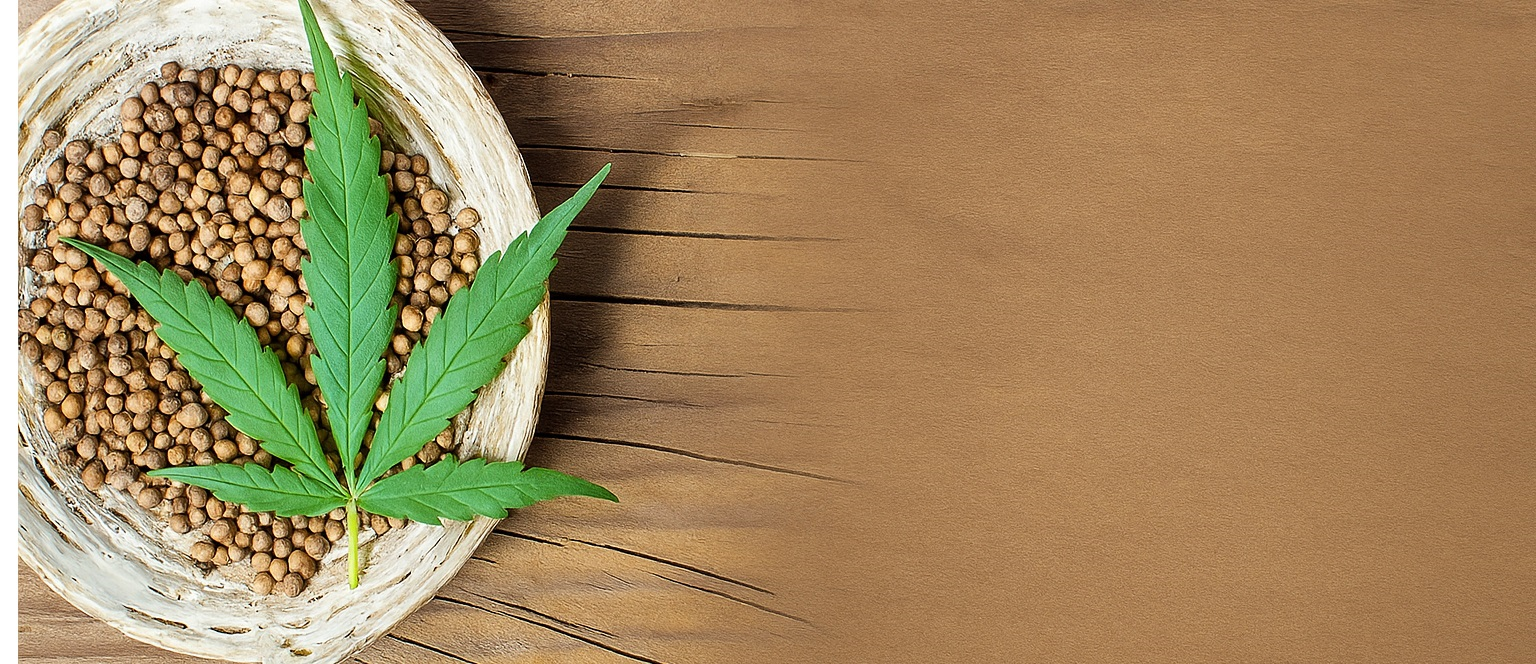
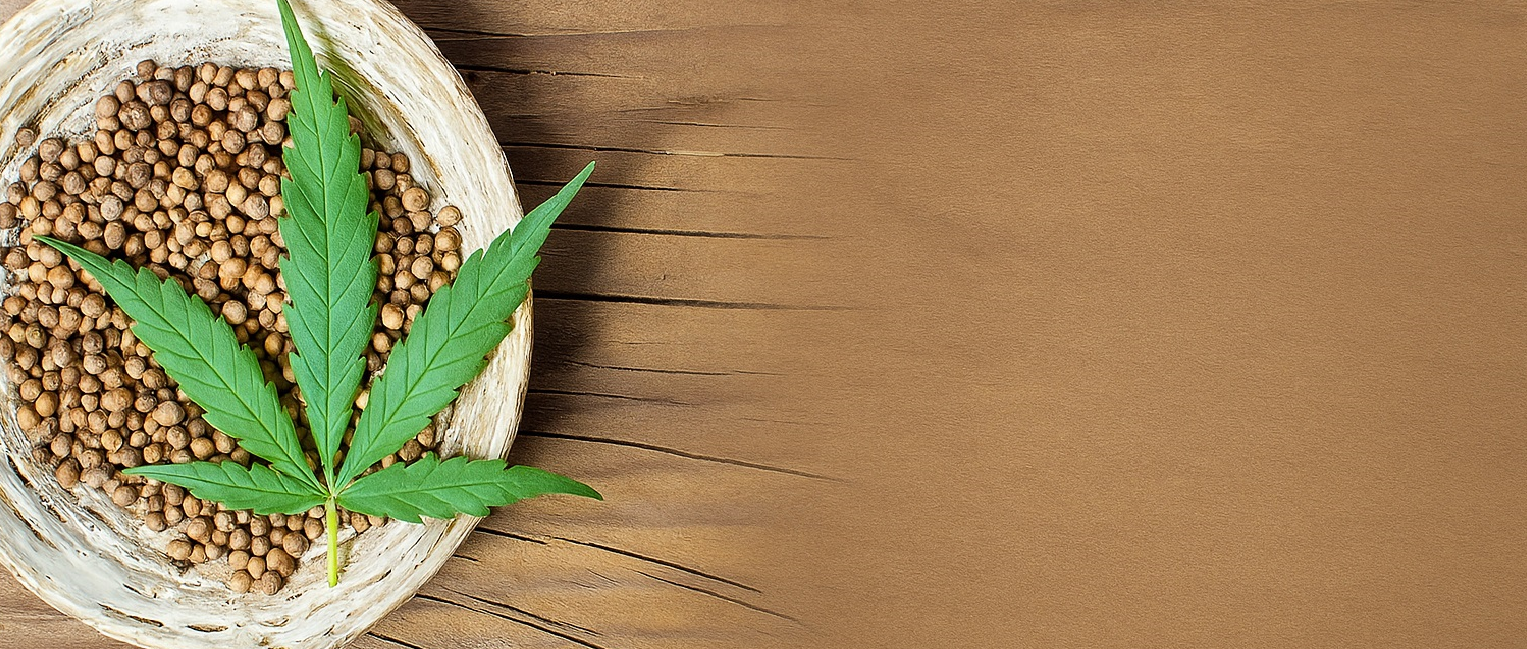
Add files via upload

diff --git a/css/styles.css b/css/styles.css
@@ -754,3 +754,71 @@ body{ overflow-x: hidden; }
   /* Make sure long words don't force width */
   #carousel, #carousel *{ min-width: 0; }
 }
+
+/* === HEADER LAYOUT UPDATE (wider, slightly less tall, shift content ~1/4 right) === */
+.site-header{
+  /* Make header visually wider and slightly less tall */
+  background-size: cover !important;
+  background-position: center center !important;
+  /* Control height via min-height instead of large paddings */
+  min-height: clamp(180px, 28vw, 340px);
+  padding-top: clamp(16px, 3vw, 28px) !important;
+  padding-bottom: clamp(16px, 3vw, 28px) !important;
+}
+
+/* Treat the inner header block (title + INASE + subtitle) as a single visual group */
+.site-header .container{
+  display: grid;
+  justify-items: center;
+  align-items: center;
+  gap: 8px;
+  /* Keep the group compact and scalable */
+  width: min(92%, 960px);
+  margin: 0 auto;
+  /* Shift group roughly one-quarter of the header width to the right of center.
+     Use a viewport-based translate so it's proportional without editing HTML. */
+  transform: translateX(12.5vw);
+}
+
+/* Limit shift on very small screens so it doesn't push too far */
+@media (max-width: 520px){
+  .site-header .container{
+    transform: translateX(6vw);
+  }
+}
+
+/* Keep typography proportional */
+.site-title{
+  font-size: clamp(22px, 4.2vw, 40px);
+  line-height: 1.05;
+  text-align: center;
+}
+.site-subtitle{
+  font-size: clamp(12px, 2.4vw, 16px);
+  text-align: center;
+}
+
+/* Target the INASE image variants by filename pattern to preserve proportions */
+.site-header img[src*="inase_hd"]{
+  height: clamp(34px, 6vw, 56px);
+  width: auto;
+  display: block;
+}
+
+/* Ensure the three elements stay grouped tightly regardless of screen size */
+.site-header .container > *{
+  max-width: 100%;
+}
+
+/* On large screens, allow a slightly stronger right shift for visual balance */
+@media (min-width: 1024px){
+  .site-header .container{ transform: translateX(16vw); }
+}
+
+
+/* === New header background override === */
+.site-header{
+  background-image: url('../img/header-bg.png') !important;
+  background-size: cover;
+  background-position: center;
+}

diff --git a/js/data-driver.js b/js/data-driver.js
@@ -207,3 +207,39 @@ function renderCardsFromProducts(){
   window.closeSpecsAccordion = closeSpecsAccordion;
   window.toggleSpecsAccordion = toggleSpecsAccordion;
 })();
+
+
+// === Carousel Controls (Prev/Next) ===
+(function(){
+  function scrollByCard(dir){
+    try {
+      var list = document.getElementById('carousel');
+      if(!list) return;
+      var item = list.querySelector('.card');
+      var step = list.clientWidth * 0.9; // fallback
+
+      if(item){
+        var rect = item.getBoundingClientRect();
+        step = rect.width;
+        var cs = getComputedStyle(list);
+        var gap = parseFloat(cs.columnGap || cs.gap || '0') || 0;
+        step += gap;
+      }
+      list.scrollBy({ left: dir * step, behavior: 'smooth' });
+    } catch(e){ try { console.error('scrollByCard error', e); } catch(_){} }
+  }
+
+  function bindCarouselArrows(){
+    var prev = document.getElementById('prevBtn');
+    var next = document.getElementById('nextBtn');
+    if(prev){
+      prev.addEventListener('click', function(e){ e.preventDefault(); scrollByCard(-1); });
+    }
+    if(next){
+      next.addEventListener('click', function(e){ e.preventDefault(); scrollByCard(1); });
+    }
+  }
+
+  if(document.readyState !== 'loading') bindCarouselArrows();
+  else document.addEventListener('DOMContentLoaded', bindCarouselArrows);
+})();
